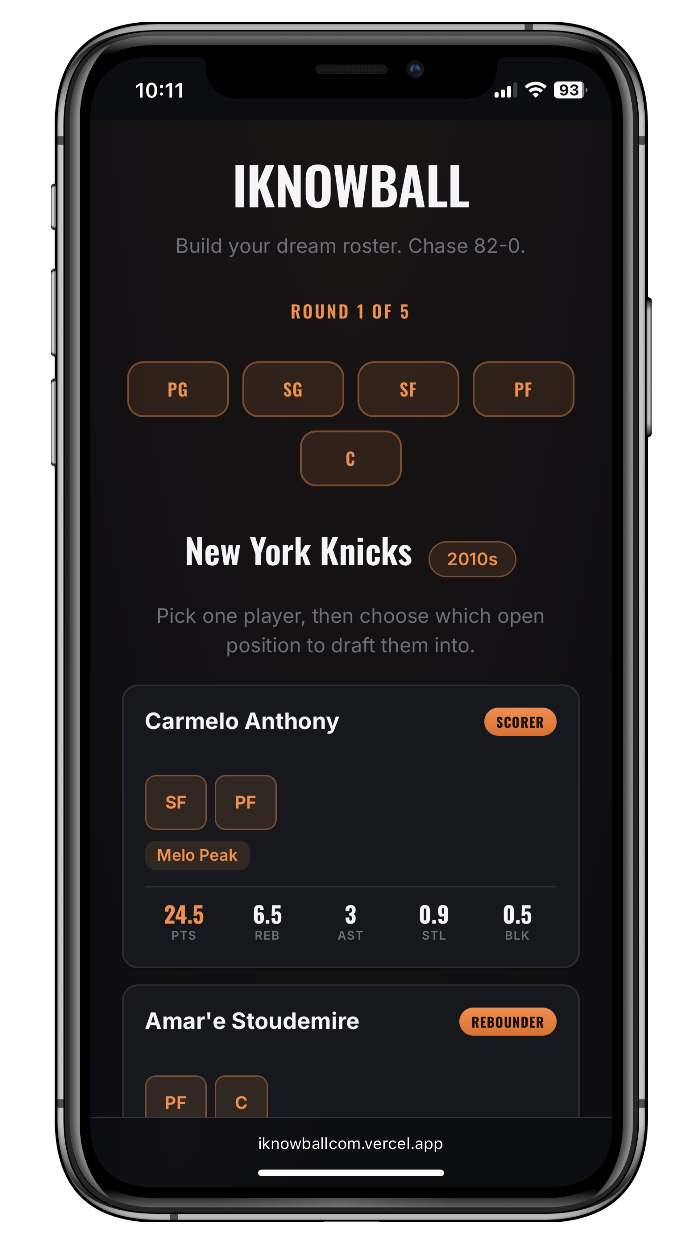
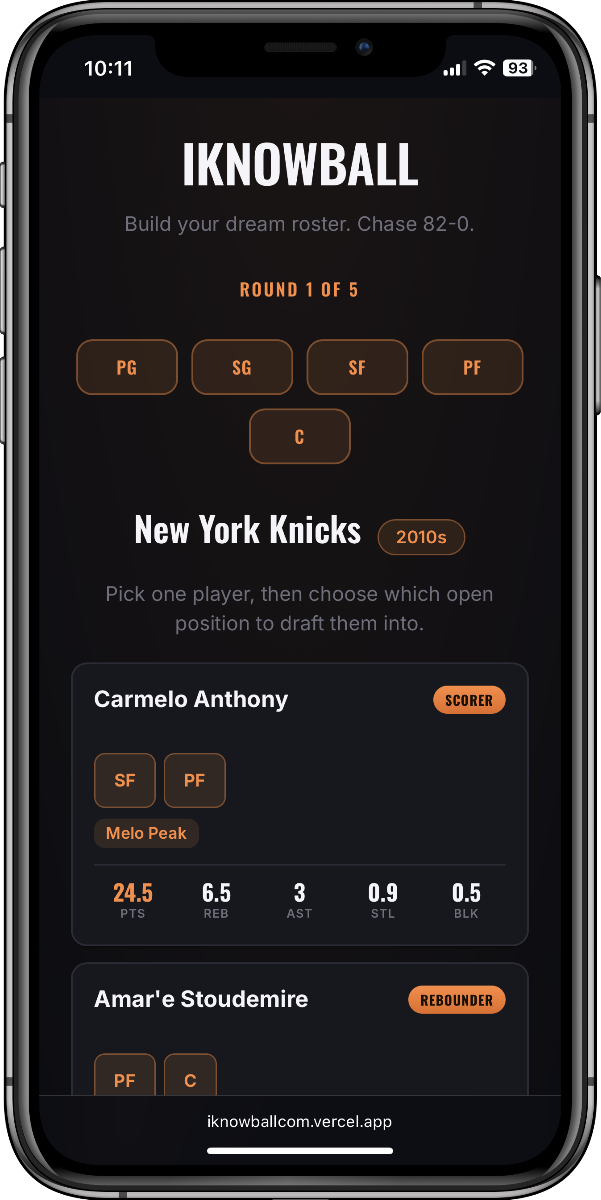
Fix mismatched phone sizes and reduce homepage image scale
Both iknowball phone images actually contained the same 601x1200
device but different amounts of surrounding transparent padding,
making them render at different sizes side by side. Cropped both
tightly to content so they match, and reduced the display width from
48% to 40% per the user's sizing feedback.

diff --git a/index.html b/index.html
@@ -568,8 +568,8 @@
         </div>
         <div class="project-sole-image">
           <a href="iknowball-case-study.html" style="display:flex;gap:16px;align-items:center;justify-content:center;width:100%;">
-            <img src="iknowball-phone-draftboard.png" alt="iknowball draft board showing the New York Knicks 2010s roster with Carmelo Anthony" style="width:48%;height:auto;display:block;">
-            <img src="iknowball-phone-results.png" alt="iknowball results screen showing a 53-29 season and tiered player cards" style="width:48%;height:auto;display:block;">
+            <img src="iknowball-phone-draftboard.png" alt="iknowball draft board showing the New York Knicks 2010s roster with Carmelo Anthony" style="width:40%;height:auto;display:block;">
+            <img src="iknowball-phone-results.png" alt="iknowball results screen showing a 53-29 season and tiered player cards" style="width:40%;height:auto;display:block;">
           </a>
         </div>
       </div>
